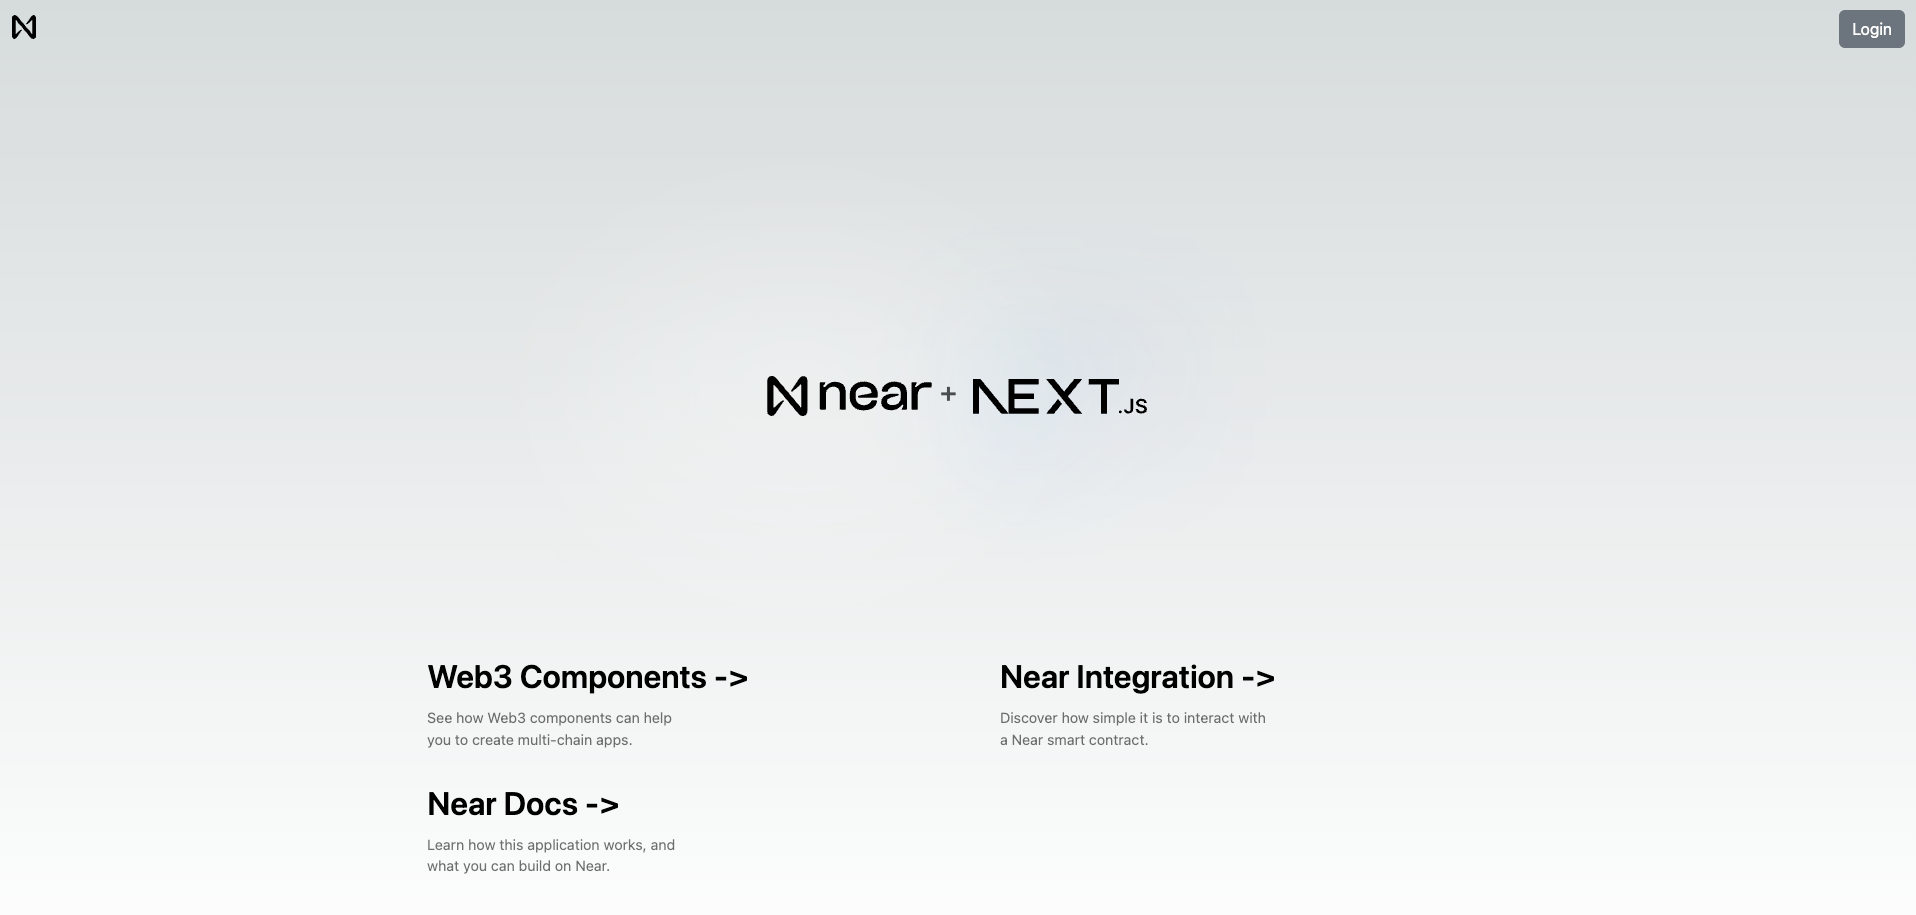
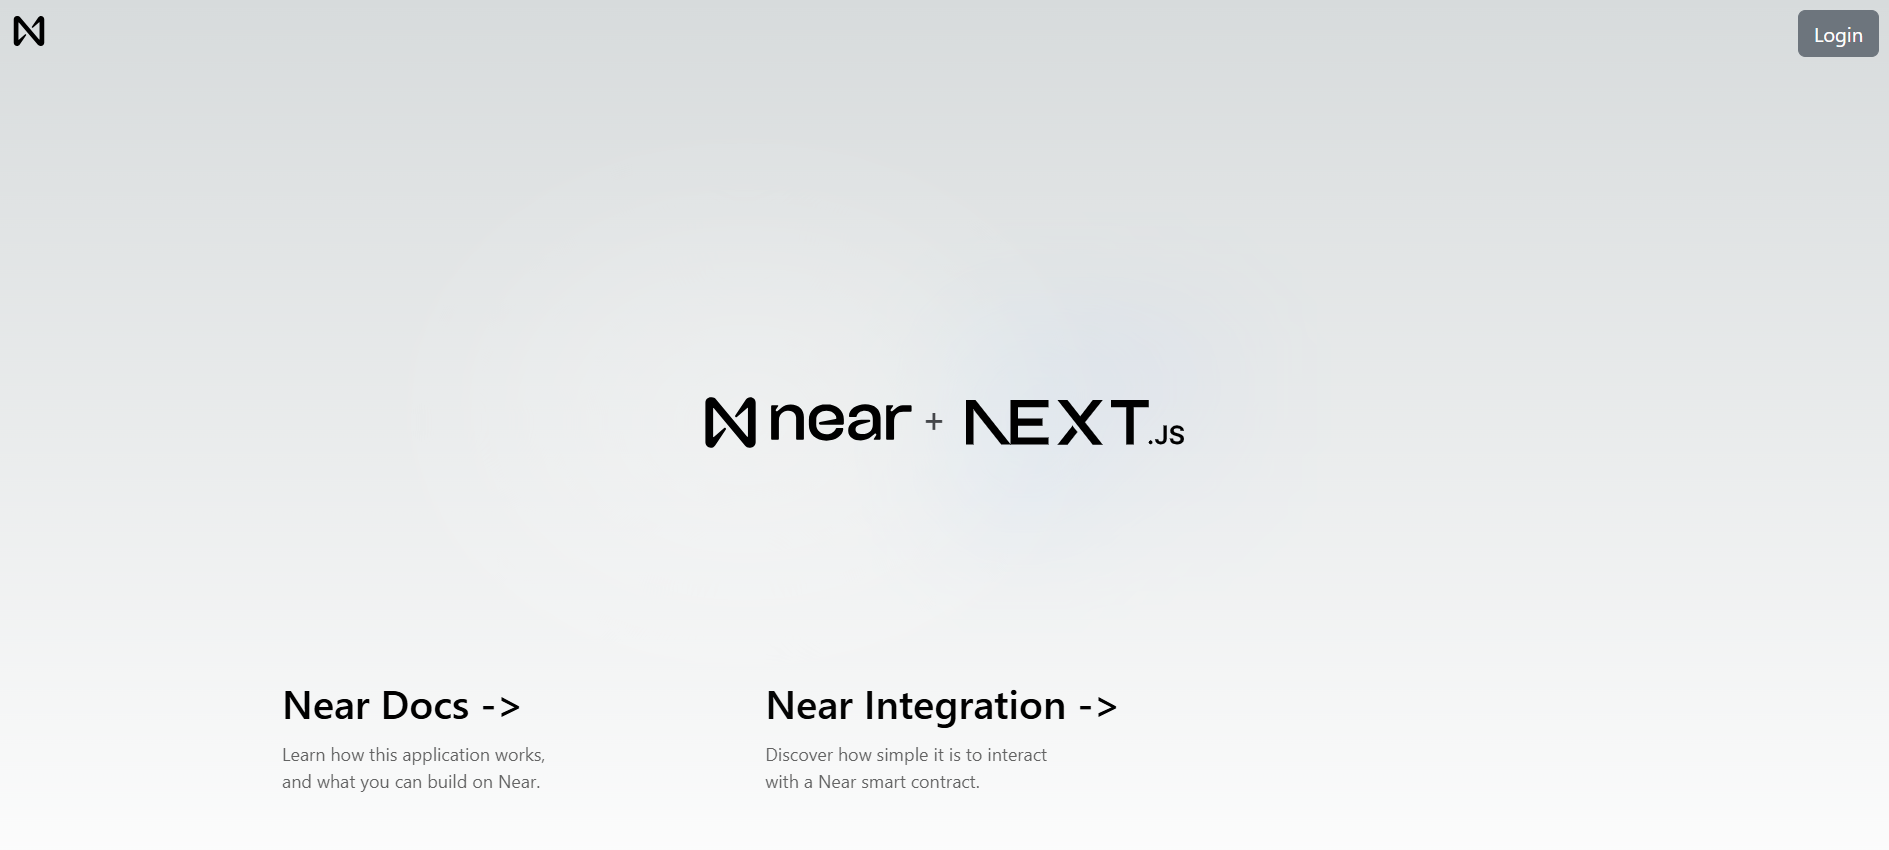
fix frontend docs

diff --git a/docs/2.build/4.web3-apps/integrate-contracts.md b/docs/2.build/4.web3-apps/integrate-contracts.md
@@ -9,7 +9,7 @@ import TabItem from '@theme/TabItem';
 To integrate NEAR to your frontend, you will leverage two tools:
 
 1. `Wallet Selector`: Enables the user to select their preferred NEAR wallet in your dApp.
-2. `NEAR API JS`: A suit of tools to interact with the NEAR RPC.
+2. `NEAR API JS`: A suite of tools to interact with the NEAR RPC.
 
 Using those tools you will implement the following flow:
 
@@ -44,9 +44,9 @@ npm install \
 
 ## Create a Wallet Object
 
-In our examples we implement a [`./wallets/near.js`](https://github.com/near-examples/hello-near-examples/blob/main/frontend/src/wallets/near.js) module, where we abstracted the `wallet selector` into a `Wallet` object to simplify using it.
+In our examples, we implement a [`./wallets/near.js`](https://github.com/near-examples/hello-near-examples/blob/main/frontend/src/wallets/near.js) module, where we abstracted the `wallet selector` into a `Wallet` object to simplify using it.
 
-To create a wallet, simply import the `Wallet` object from the module and initialize it. This `wallet` will later allows the user to call any contract in NEAR.
+To create a wallet, simply import the `Wallet` object from the module and initialize it. This `wallet` will later allow the user to call any contract in NEAR.
 
 <CodeTabs>
   <Language value="js" language="ts">
@@ -56,7 +56,7 @@ To create a wallet, simply import the `Wallet` object from the module and initia
 
     <Github fname="near.js"
         url="https://github.com/near-examples/hello-near-examples/blob/main/frontend/src/wallets/near.js"
-        start="15" end="142" />
+        start="22" end="218" />
 
   </Language>
 </CodeTabs>
@@ -67,7 +67,7 @@ Under the hood (check the `near` tab) you can see that we are actually setting u
 
 <summary> Setting customs RPC endpoints </summary>
 
-If you want to use a user-defined RPC endpoint with the Wallet Selector, you need to setup a [network options](https://github.com/near/wallet-selector/tree/main/packages/core#options) object with the custom URLs.
+If you want to use a user-defined RPC endpoint with the Wallet Selector, you need to set up a [network options](https://github.com/near/wallet-selector/tree/main/packages/core#options) object with the custom URLs.
 For example:
 
 <CodeTabs>
@@ -102,7 +102,7 @@ You can find the entire Wallet Selector [API reference here](https://github.com/
 #### Function Call Key
 When instantiating the wallet you can choose if you want to **create a [FunctionCall Key](../../1.concepts/protocol/access-keys.md#function-call-keys-function-call-keys)**.
 
-If you create the key, then your dApp will be able to **automatically sign non-payable transactions** for the user on the specified contract.
+If you create the key, your dApp will be able to **automatically sign non-payable transactions** for the user on the specified contract.
 
 ---
 
@@ -120,7 +120,7 @@ Because of their read-only nature, view methods are **free** to call, and do **n
 
     <Github fname="near.js"
         url="https://github.com/near-examples/hello-near-examples/blob/main/frontend/src/wallets/near.js"
-        start="74" end="94" />
+        start="83" end="103" />
 
 </Language>
 
@@ -140,7 +140,7 @@ View methods have by default 200 TGAS for execution
 
 In order to interact with non-view methods it is necessary for the user to first sign in using a NEAR wallet.
 
-Signing in is as simple as requesting the `wallet` object to `signIn`, the same simplicity applies to signing-out.
+Signing in is as simple as requesting the `wallet` object to `signIn`, the same simplicity applies to signing out.
 
 <CodeTabs>
   <Language value="js" language="js">
@@ -150,12 +150,12 @@ Signing in is as simple as requesting the `wallet` object to `signIn`, the same 
 
     <Github fname="near.js"
             url="https://github.com/near-examples/hello-near-examples/blob/main/frontend/src/wallets/near.js"
-            start="58" end="72" />
+            start="67" end="81" />
 
   </Language>
 </CodeTabs>
 
-When the user clicks in the button, it will be asked to select a wallet and use it to login.
+When the user clicks the login button, they will be asked to select a wallet and use it to log in.
 
 <hr className="subsection" />
 
@@ -163,13 +163,12 @@ When the user clicks in the button, it will be asked to select a wallet and use 
 
 If you instantiated the `Wallet` passing an account for the `createAccessKeyFor` parameter, then the wallet will create a [FunctionCall Key](../../1.concepts/protocol/access-keys.md#function-call-keys-function-call-keys) and store it in the web's local storage.
 
-<CodeTabs>
-  <Language value="js" language="js">
-    <Github fname="_app.js"
-            url="https://github.com/near-examples/hello-near-examples/blob/main/frontend/src/pages/_app.js"
-            start="10" end="10" />
-  </Language>
-</CodeTabs>
+```jsx
+const wallet = new Wallet({
+  createAccessKeyFor: HelloNearContract,
+  networkId: NetworkId,
+});
+```
 
 By default, such key enables to expend a maximum of `0.25Ⓝ` on GAS calling methods in **the specified** contract **without prompting** the user to sign them.
 
@@ -177,7 +176,7 @@ If, on the contrary, you do not create an access key, then the user will be aske
 
 :::tip
 
-Please notice that this only applies for **non-payable** methods, if you attach money to any call the user will **always** be redirected to the wallet to confirm the transaction.
+Please notice that this only applies to **non-payable** methods, if you attach money to any call the user will **always** be redirected to the wallet to confirm the transaction.
 
 :::
 
@@ -185,9 +184,7 @@ Please notice that this only applies for **non-payable** methods, if you attach 
 
 ## Calling Change Methods
 
-Once the user logs-in they can start calling change methods. Programmatically, calling change methods is similar to calling view methods, only that now you can attach money to the call, and specify how much GAS you want to use.
-
-It is important to notice that, if you ask for money to be attached in the call, then the user will be redirected to the NEAR wallet to accept the transaction.
+Once the user logs in they can start calling change methods. Programmatically, calling change methods is similar to calling view methods, only that now you can attach money to the call, and specify how much GAS you want to use.
 
 <CodeTabs>
   <Language value="js" language="js">
@@ -197,7 +194,7 @@ It is important to notice that, if you ask for money to be attached in the call,
 
     <Github fname="near.js"
         url="https://github.com/near-examples/hello-near-examples/blob/main/frontend/src/wallets/near.js"
-        start="97" end="126" />
+        start="105" end="134" />
 
 </Language>
 
@@ -207,7 +204,7 @@ Under the hood (see `near-wallet` tab) we can see that we are actually asking th
 
 :::tip
 
-Remember that you can use the `wallet` to call methods in **any** contract. If you did not asked for a function key to be created, the user will simply be prompt to confirm the transaction.
+Remember that you can use the `wallet` to call methods in **any** contract. If you did not ask for a function key to be created, the user will simply be prompted to confirm the transaction.
 
 :::
 
@@ -215,16 +212,78 @@ Remember that you can use the `wallet` to call methods in **any** contract. If y
 
 ### Wallet Redirection
 
-If you attach money to a change call, then the user will be redirected to their wallet to accept the transaction. After accepting, the user will be brought back to your website, with the resulting transaction hash being pass as part of the url (i.e. `your-website.com/?transactionHashes=...`).
+When calling a change call with **attatched deposit** (or any change call if no function call key was created), then the user will be prompted to sign the transaction in the wallet. 
 
-If the method invoked returned a result, you can use the transaction hash to retrieve the result from the network. Assuming you created the `near` object as in the [example above](#connecting-to-a-contract), then you query the result by utilizing:
+If using a web wallet, as opposed to an extension, the user will be redirected to the wallet's website to sign the transaction.
+After accepting, the user will be brought back to your application, with the resulting transaction hash being passed as part of the URL (i.e. `your-website.com/?transactionHashes=...`).
+
+If the method invoked returned a result, you can use the transaction hash to retrieve the result from the network. You can fetch the transaction hash via:
+
+```jsx
+const txHash = new URLSearchParams(window.location.search).get('transactionHashes');
+```
+
+Assuming you created the `near` object as in the [example above](#connecting-to-a-contract), then you query the result by utilizing:
 
 <CodeTabs>
   <Language value="js" language="js">
 
     <Github fname="near.js"
             url="https://github.com/near-examples/hello-near-examples/blob/main/frontend/src/wallets/near.js"
-            start="128" end="141" />
+            start="136" end="149" />
+
+</Language>
+
+</CodeTabs>
+
+---
+
+## Sending Multiple Transactions
+
+The Wallet class also exposes a method that can be used to send multiple transactions. 
+
+<CodeTabs>
+  <Language value="js" language="js">
+
+    <Github fname="near.js"
+            url="https://github.com/near-examples/hello-near-examples/blob/main/frontend/src/wallets/near.js"
+            start="177" end="186" />
+
+</Language>
+
+</CodeTabs>
+
+Transactions can either be sent as multiple separate  transactions simultaneously or as a batch transaction made up of actions where if one of the actions fails, they are all reverted. An example of both can be seen [here](https://docs.near.org/tutorials/examples/frontend-multiple-contracts#dispatching-multiple-transactions)  
+
+---
+
+## Querying Account Balance 
+
+By calling the `getBalance` method the user can get the balance of the account that is currently logged in.
+
+<CodeTabs>
+  <Language value="js" language="js">
+
+    <Github fname="near.js"
+            url="https://github.com/near-examples/hello-near-examples/blob/main/frontend/src/wallets/near.js"
+            start="151" end="175" />
+
+</Language>
+
+</CodeTabs>
+
+---
+
+## Get Access Keys 
+
+The final method the Wallet class exposes is `getAccessKeys` which is used to return an object of all the access keys on the account that is currently logged in.
+
+<CodeTabs>
+  <Language value="js" language="js">
+
+    <Github fname="near.js"
+            url="https://github.com/near-examples/hello-near-examples/blob/main/frontend/src/wallets/near.js"
+            start="188" end="206" />
 
 </Language>
 
@@ -271,4 +330,4 @@ NEAR API JS does not limit itself to simply calling methods in a contract. In fa
 - **[Create batch transactions](https://github.com/near/near-api-js/tree/master/packages/cookbook/transactions/batch-transactions.js)**: this enables to link multiple [actions](../../1.concepts/protocol/transaction-anatomy.md#actions) (e.g. multiple function calls). If one of the transactions fails, then they are all reverted.
 - **[Create accounts](https://github.com/near/near-api-js/tree/master/packages/cookbook/accounts/create-testnet-account.js)**: deploy accounts for your users!
 
-Check the [cookbook](/tools/near-api-js/cookbook) to learn how to supercharge your webapp.
+Check the [cookbook](/tools/near-api-js/cookbook) to learn how to supercharge your web-app.

diff --git a/docs/2.build/4.web3-apps/quickstart.md b/docs/2.build/4.web3-apps/quickstart.md
@@ -7,13 +7,7 @@ import Tabs from '@theme/Tabs';
 import TabItem from '@theme/TabItem';
 import {CodeTabs, Language, Github} from "@site/src/components/codetabs"
 
-Most interactions with the NEAR ecosystem can be grouped in 2 categories: 
-1. Interacting with a [NEAR smart contract](./integrate-contracts.md).
-2. Interacting with a [NEAR component](./integrate-components.md).
-
-In this guide we will show you how to quickly spin-up an application where users can **login** using their wallets and interact with both **contracts** and **components**.
-
-Furthermore, the application readily integrates a `Web3 wallet`, allowing people to use `Metamask` to interact with multi-chain components.
+In this guide we will show you how to quickly spin up a frontend where users can **login** using their wallets and interact with a **contract**.
 
 :::tip Searching to integrate NEAR in your App?
 If you already have an application and want to integrate NEAR into it, we recommend you to first go through this guide and then check our documentation on [integrating NEAR to a frontend](./integrate-contracts.md)
@@ -29,8 +23,8 @@ If you already have [Node.js](https://nodejs.org/en/download) installed, simply 
 ```
 
 Use the interactive menu to set up:
-1. `A Near Gateway (Web App)`.
-2. `NextJs + React`.
+1. `A Web App`.
+2. `NextJs (Classic)`.
 
 :::tip Using pnpm
 While you can use our app with any package manager, we recommend you to skip the installation step and manually install the dependencies using `pnpm i`.
@@ -55,7 +49,7 @@ Make sure you are using **node >= v18**, you can easily switch versions using `n
 
 ## Landing Page
 
-Once the app starts you will see the landing page, rendering a navigation bar that allows users to login using their NEAR wallet, and two pathways:
+Once the app starts you will see the landing page, rendering a navigation bar that allows users to login using their NEAR wallet. You can then navigate to the docs or the `Near Integration` page (which we will do).
 
 ![img](/docs/assets/examples/hello-near-landing-page.png)
 *Landing page of Hello NEAR Gateway*
@@ -68,17 +62,28 @@ Go ahead and sign in with your NEAR account. If you don't have one, you can crea
 
 [Next.js](https://nextjs.org/) uses a template system, where each page is a React component.
 
-Our app's template is defined at `./src/layout.js`. It does two things:
+Our app's template is defined at `./src/pages/_app.js`. It does two things:
 
-1. Initializes a [wallet selector](../../4.tools/wallet-selector.md), and stores it so other components can access it later.
+1. Initializes a [wallet selector](../../4.tools/wallet-selector.md), and stores it in context so other components can access it later.
 2. Renders the navigation menu and the page's content.
 
-<Github url="https://github.com/near-examples/hello-near-examples/blob/master/frontend/src/layout.js" language="jsx" start="18" end="25" />
+<Github url="https://github.com/near-examples/hello-near-examples/blob/main/frontend/src/pages/_app.js" language="jsx" start="9" end="22" />
+
+When initializing the `wallet` you can choose to create a [function call access key](../../1.concepts/protocol/access-keys.md) for a specific contract for the application to use. This allows the application to sign `non-payable` methods on behalf of the user so they are not required to manually sign each transaction.
+
+```jsx
+const wallet = new Wallet({
+  createAccessKeyFor: HelloNearContract,
+  networkId: NetworkId,
+});
+```
+
+This example additionally includes the option to login with `Metamask` and other `EVM wallets`. Further information on how to add EVM wallets to your application can be found in the [Ethereum Wallets on NEAR documentation](../../4.tools/ethereum-wallets.md).
 
 <details>
 <summary>What is the wallet selector?</summary>
 
-The wallet selector is a component that allows users to select their preferred Near wallet to login. Our application implements a `useInitWallet` hook, that initializes a wallet selector and stores it so other components can access it later.  
+The wallet selector is a modal that allows users to select their preferred Near wallet to login. Our application creates a new instance of the wallet selector then stores it in the apps context so it can be accessed by other components.
 
 </details>
 
@@ -87,7 +92,7 @@ The wallet selector is a component that allows users to select their preferred N
 ### Navigation Bar & Login
 The navigation bar implements buttons to `login` and `logout` users with their Near wallet.
 
-The code for the navigation bar can be found at `./src/navigation.js`. The login and logout buttons are implemented by using the `signIn` and `signOut` methods from the wallet selector previously initialized:
+The code for the navigation bar can be found at `./src/components/navigation.js`. The login and logout buttons are implemented by using the `signIn` and `signOut` methods from the wallet selector previously initialized:
 
 <Github url="https://github.com/near-examples/hello-near-examples/blob/master/frontend/src/components/navigation.js" language="jsx" start="10" end="23" />
 
@@ -105,61 +110,23 @@ Login if you haven't done it yet and you will see a simple form that allows you 
 <hr className="subsection" />
 
 ### Under the Hood
-Interactions with NEAR are done using the `useStore` hook to retrieve the `wallet` we initialized on the `layout`. The wallet allows us to interact with the smart contract through the methods `viewMethod` and `callMethod`.
+We retrieve the `wallet` we initialized earlier via the `useContext` hook. The wallet allows us to interact with the smart contract through `viewMethod` and `callMethod`.
 
 - `viewMethod` is used to call functions that are read-only
 - `callMethod` is used to call functions that modify the state of the contract 
 
-<Github url="https://github.com/near-examples/hello-near-examples/blob/master/frontend/src/pages/hello-near/index.js" language="jsx" start="14" end="38" />
+<Github url="https://github.com/near-examples/hello-near-examples/blob/master/frontend/src/pages/hello-near/index.js" language="jsx" start="13" end="36" />
 
 On load, the first `useEffect` hook will call the contract's `get_greeting` method and set the `greeting` state to the result.
 
-If the user is logged in, the `storeGreeting` method will call the contract's `set_greeting` method and set the `greeting` state to the result.
-
----
-
-## Interacting with a Component
-
-Now let's take a look at the Components page. Go ahead and click on the card titled Web3 Components at the bottom on the page. Once you do you'll be taken to the screen below:
-
-![img](/docs/assets/examples/hello-near-components.png)
-*The Near Components Page*
-
-If you're following along, you should already be logged into your NEAR account. If you aren't, go ahead and do so now.
-
-You'll see that once you're logged in you are able to interact with the components that come included with the app.
-
-:::info Ethereum Components
-To interact with the Ethereum components (a Lido) you will need to have Metamask, or other web3 compatible wallets 
-:::
-
-:::warning Ethereum Mainnet
-While the component's code is stored in the **Near testnet**, the Lido component is connected to the **Ethereum mainnet**.
-:::
-
-<hr className="subsection" />
-
-### Under the Hood
-
-The source code (located in `./src/hello-components/page.js`) shows us that the page is rendering components pulled from the SocialDB:
-
-<CodeTabs>
-  <TabItem value="page.js">
-    <Github url="https://github.com/near-examples/hello-near-examples/blob/master/frontend/src/pages/hello-components/index.js" start="27" end="36" language="jsx" />
-  </TabItem>
-  <TabItem value="vm-components.js">
-      <Github url="https://github.com/near-examples/hello-near-examples/blob/master/frontend/src/components/vm-component.js" language="jsx" />
-  </TabItem>
-</CodeTabs>
-
-Particularly, the `Component` in the main page are wrappers around the `Widget` component of the SocialVM.
+If the user is logged in, the user will be able to use the `saveGreeting` function which will call the contract's `set_greeting` method and then update the `greeting`.
 
 ---
 
 ## Moving Forward
 
-That's it for our quickstart  tutorial. You have now seen a fully functional frontend that can talk with NEAR contracts and render Web3 components.
+That's it for our quickstart tutorial. You have now seen a fully functional frontend that can talk with NEAR contracts and render Web3 components.
 
-If you have any questions, do not hesitate in joining us on [Discord](https://near.chat). We regularly host Office Hours, in which you can join our voice channel and ask questions.
+If you have any questions, do not hesitate in joining us on [Telegram](https://t.me/neardev) or [Discord](https://near.chat). We regularly host Office Hours, in which you can join our voice channel and ask questions.
 
 Happy coding!
